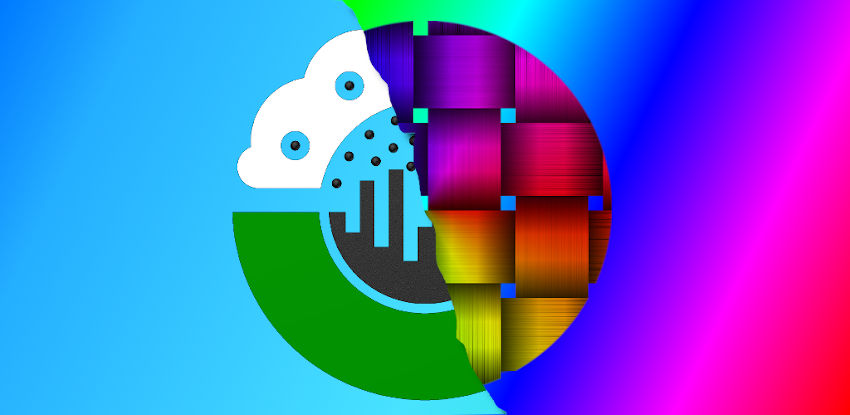
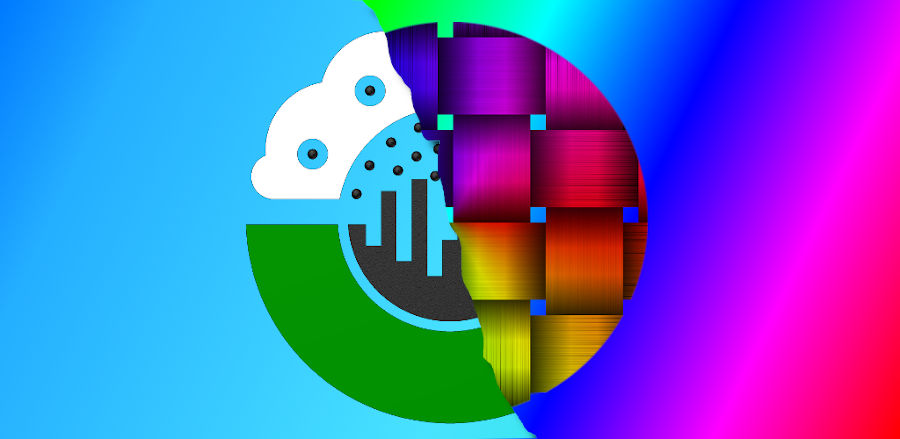
Scale image and add compression

diff --git a/README.md b/README.md
@@ -1,5 +1,5 @@
 <p align="center">
-	<img src="https://raw.githubusercontent.com/marcauberer/marcauberer/master/images/frontpage-image.png">
+	<img src="https://raw.githubusercontent.com/marcauberer/marcauberer/master/images/frontpage-image.jpg">
 	<br><br>
 	<b>Hi, I'm Marc. Software and OpenSource enthusiast, primarily developing Android applications. Thanks for visiting my GitHub profile!
 </p>
